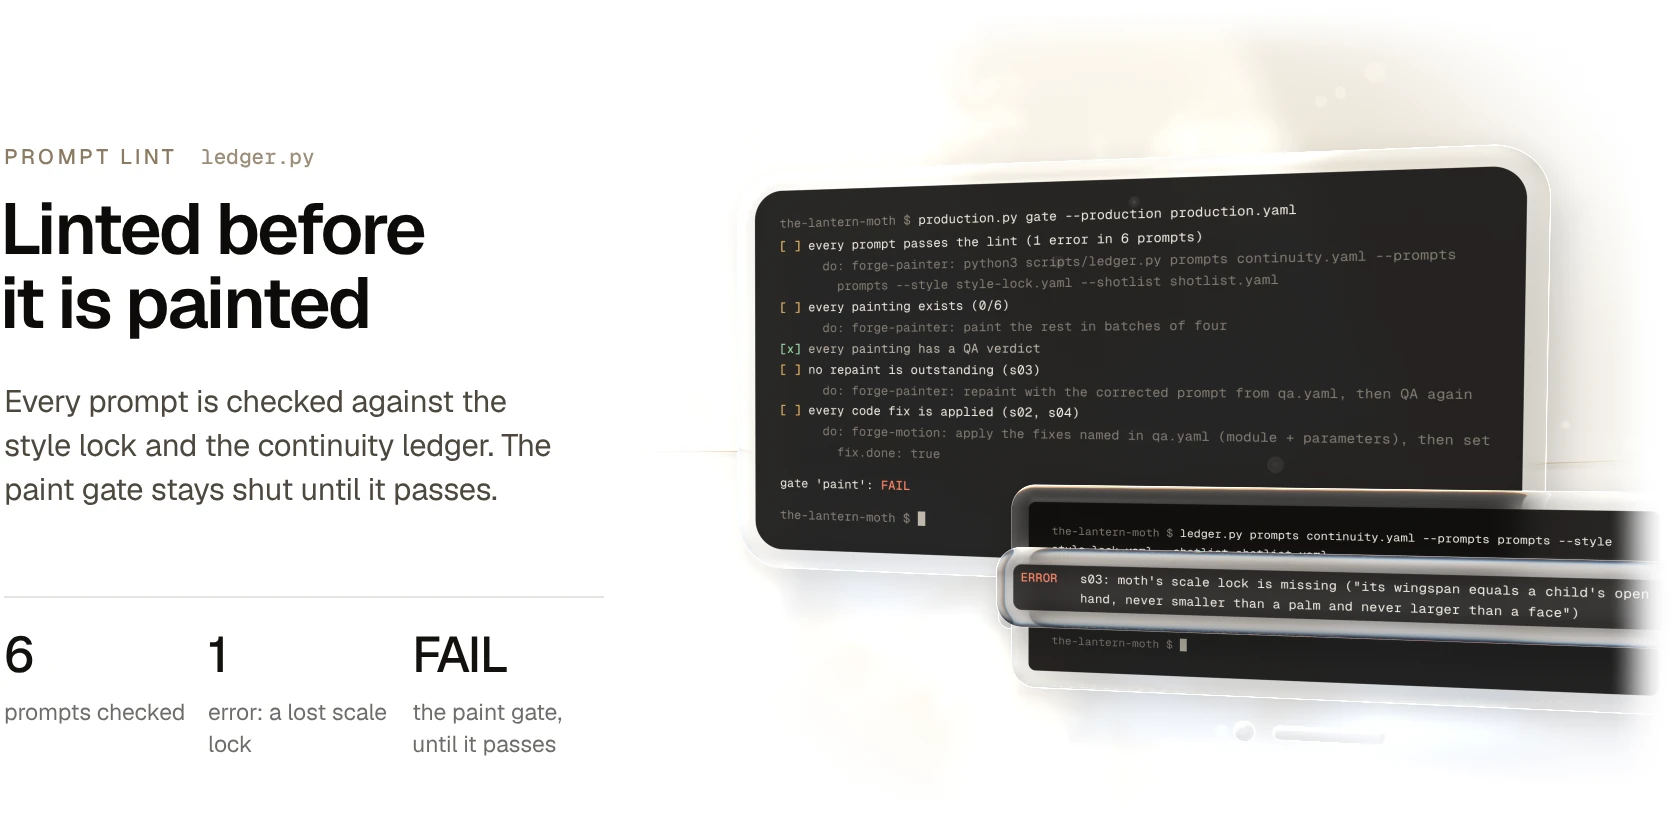
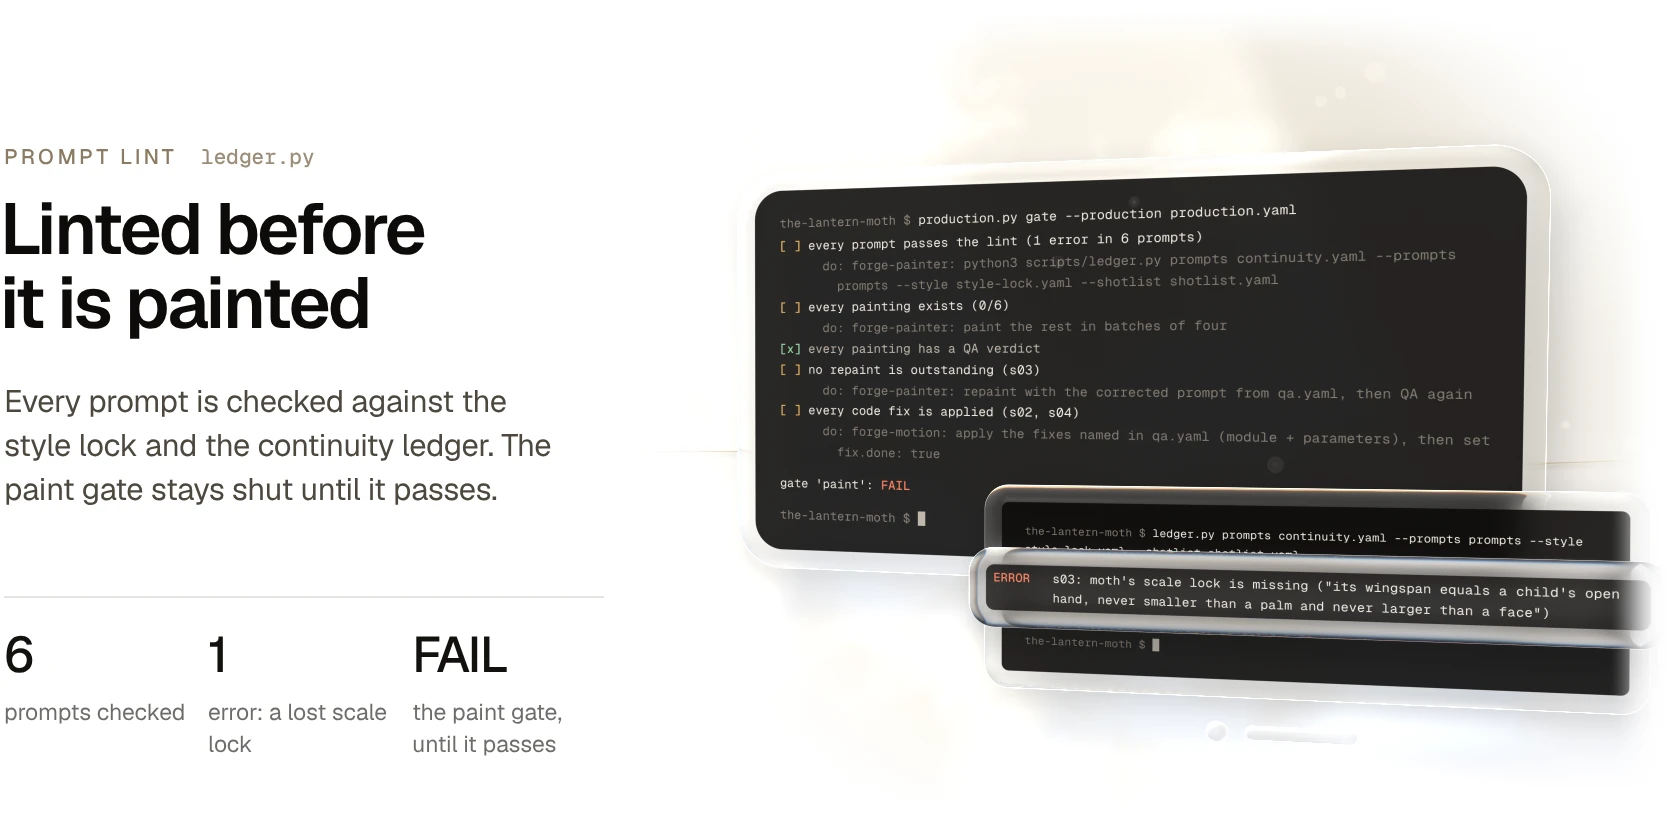
README: clean the phone hero in light, keep the lint error in frame
On a phone in the light theme the dark terminals behind the technique
page showed through its glass as a grey smear over the first three
rules, and through both ends of the stage rail. The page and the rail
now let less of what is behind them through, the two far terminals sit
deeper in the haze, and the shot-list terminal stands 20 px further
right. The dark phone hero follows the same positions.

In the wide lint image the lifted error ran into the fade at the right
edge ("a child's open"); its window moves 14 px left so the whole line
reads. The light hero's description no longer calls its page dark.

Claude-Session: https://claude.ai/code/session_01HQfW8pkzqmESaZpf3GNiQv

diff --git a/docs/readme/src/layouts.js b/docs/readme/src/layouts.js
@@ -113,7 +113,7 @@ const LINT = {
   facts: [['6', 'prompts checked'], ['1', 'error: a lost scale lock'], ['FAIL', 'the paint gate, until it passes']],
   win: (n, ph) => {
     const P = ph ? { a: { x: 170, y: 350, w: 320, z: -60, rot: [2, -10, 0] }, b: { x: 236, y: 448, w: 270, z: 70, rot: [0, -12, 0] } }
-      : { a: { x: 556, y: 206, w: 380, z: -80, rot: [2, -18, 0] }, b: { x: 664, y: 318, w: 300, z: 60, rot: [0, -14, 0] } };
+      : { a: { x: 556, y: 206, w: 380, z: -80, rot: [2, -18, 0] }, b: { x: 650, y: 318, w: 300, z: 60, rot: [0, -14, 0] } };
     return [
       { tex: tx('term-gate', n), ...P.a, key: TERM, keyAmt: n ? 0.6 : 0.12, breathe: [8, 0.0], bezel: 10, glowColor: '#2e2010' },
       { tex: tx('term-lint', n), ...P.b, key: TERM, keyAmt: n ? 0.6 : 0.12, breathe: [8, 0.45], bezel: 9, glowColor: '#3a1c12' },
@@ -184,14 +184,14 @@ export const LAYOUTS = {
     css: [381, 640], dpr: 1080 / 381, fade: [16, 16, 24, 30], cam: [7, 3], motion: 0.75, hold: 2, loop: HERO_LOOP, pool: [0.5, 0.40, 0.75, 0.55], threadSpan: [0.0, 0.2, 0.8, 1.0],
     night: merge(HERO_NIGHT, { env: { thread: [0.42, 0.010, 0.0007, 0.9] } }), day: merge(HERO_DAY, { env: { thread: [0.42, 0.010, 0.0005, 0.8] } }),
     windows: (n) => heroWindows(n, [
-      { x: 90, y: 228, w: 92, z: -820, rot: [10, 18, 0] },
-      { x: 294, y: 226, w: 90, z: -820, rot: [10, -18, 0] },
+      { x: 90, y: 228, w: 92, z: -820, rot: [10, 18, 0], ...(n ? {} : { fog: 0.72 }) },
+      { x: 294, y: 226, w: 90, z: -820, rot: [10, -18, 0], ...(n ? {} : { fog: 0.72 }) },
       { x: 70, y: 318, w: 136, z: -320, rot: [2, 32, 0] },
-      { x: 314, y: 306, w: 136, z: -320, rot: [2, -32, 0] },
-      { x: 182, y: 388, w: 262, z: 40, rot: [3, 0, 0] },
+      { x: 334, y: 306, w: 136, z: -320, rot: [2, -32, 0] },
+      { x: 182, y: 388, w: 262, z: 40, rot: [3, 0, 0], ...(n ? {} : { keyAmt: 0.1 }) },
       { x: 270, y: 512, w: 196, z: 170, rot: [0, -14, 0] },
       ,
-      { x: 190.5, y: 190, w: 316, z: 20, rot: [5, 0, 0] },
+      { x: 190.5, y: 190, w: 316, z: 20, rot: [5, 0, 0], ...(n ? {} : { keyAmt: 0.2 }) },
     ]),
     type: [
       T('name', 'filmforge', 190.5, 34, { fontSize: '52px' }, 'center'),

diff --git a/README.md b/README.md
@@ -1,4 +1,4 @@
-<a href="docs/method.md#gh-dark-mode-only"><picture><source media="(max-width: 767px)" srcset="docs/readme/hero-dark-phone.webp 2.835x"><source srcset="docs/readme/hero-dark.webp 2x"><img src="docs/readme/hero-dark.webp" width="840" alt="filmforge. The technique for painted films made with AI, written down and checked at every gate. The technique on one page floats at the centre as a dark glass page, with rule 07, Lint before you paint, lifted out of it. Above it, a rail of the nine stages from Brief to Retro, where a marker moves from stage to stage as each gate is passed. Around it, as glass windows: an annotated prompt, the shot list measured, the production status, the budget, and the prompt lint catching the one prompt that lost its scale lock."></picture></a><a href="docs/method.md#gh-light-mode-only"><picture><source media="(max-width: 767px)" srcset="docs/readme/hero-light-phone.webp 2.835x"><source srcset="docs/readme/hero-light.webp 2x"><img src="docs/readme/hero-light.webp" width="840" alt="filmforge. The technique for painted films made with AI, written down and checked at every gate. The technique on one page floats at the centre as a dark glass page, with rule 07, Lint before you paint, lifted out of it. Above it, a rail of the nine stages from Brief to Retro, where a marker moves from stage to stage as each gate is passed. Around it, as glass windows: an annotated prompt, the shot list measured, the production status, the budget, and the prompt lint catching the one prompt that lost its scale lock."></picture></a>
+<a href="docs/method.md#gh-dark-mode-only"><picture><source media="(max-width: 767px)" srcset="docs/readme/hero-dark-phone.webp 2.835x"><source srcset="docs/readme/hero-dark.webp 2x"><img src="docs/readme/hero-dark.webp" width="840" alt="filmforge. The technique for painted films made with AI, written down and checked at every gate. The technique on one page floats at the centre as a dark glass page, with rule 07, Lint before you paint, lifted out of it. Above it, a rail of the nine stages from Brief to Retro, where a marker moves from stage to stage as each gate is passed. Around it, as glass windows: an annotated prompt, the shot list measured, the production status, the budget, and the prompt lint catching the one prompt that lost its scale lock."></picture></a><a href="docs/method.md#gh-light-mode-only"><picture><source media="(max-width: 767px)" srcset="docs/readme/hero-light-phone.webp 2.835x"><source srcset="docs/readme/hero-light.webp 2x"><img src="docs/readme/hero-light.webp" width="840" alt="filmforge. The technique for painted films made with AI, written down and checked at every gate. The technique on one page floats at the centre as a glass page, with rule 07, Lint before you paint, lifted out of it. Above it, a rail of the nine stages from Brief to Retro, where a marker moves from stage to stage as each gate is passed. Around it, as glass windows: an annotated prompt, the shot list measured, the production status, the budget, and the prompt lint catching the one prompt that lost its scale lock."></picture></a>
 
 filmforge is the technique for making painted films with AI image and video models, written as nine Claude Code skills and held in place by seven small tools. The story is priced before anything is generated, one look is pasted word for word into every prompt, and every prompt is linted before it costs a credit. The repository keeps the method, not the pictures: every image on this page is one of its own pages or a tool's real output.
 
